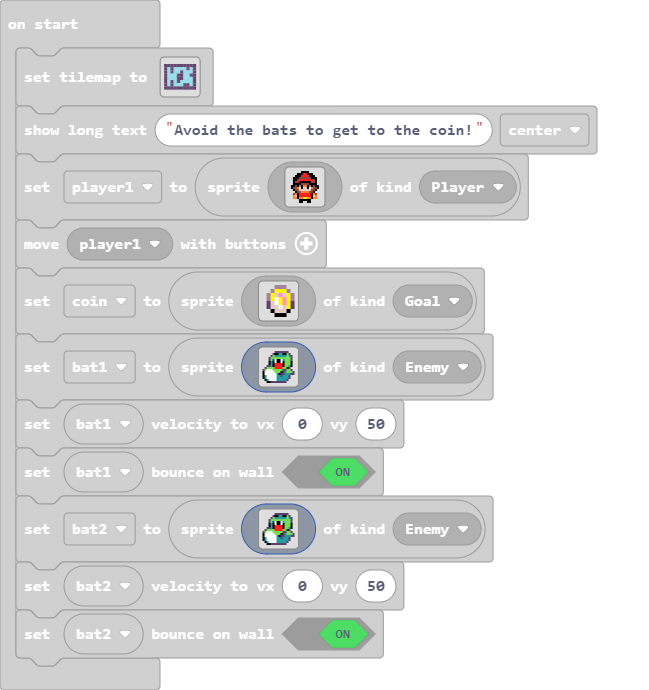
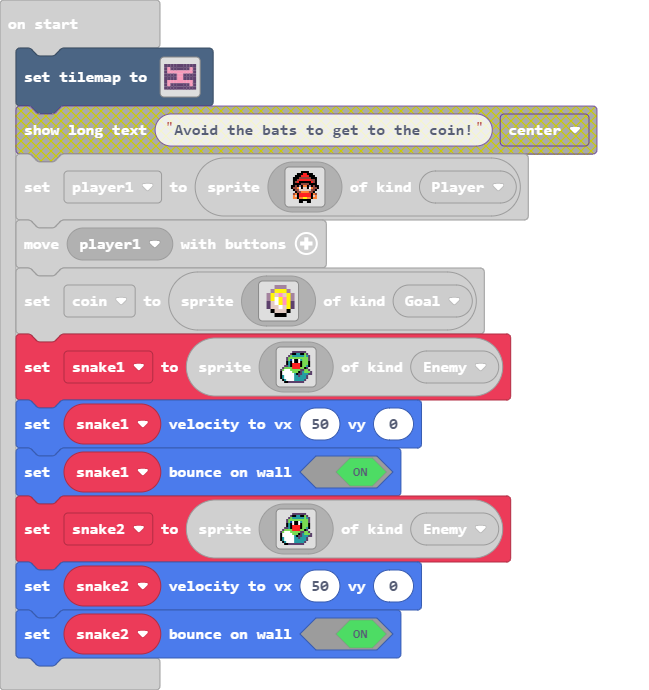
Update main.blocks, main.ts, tilemap.g.jres, tilemap.g.ts

diff --git a/tilemap.g.ts b/tilemap.g.ts
@@ -64,17 +64,6 @@ namespace myTiles {
 . . . . . . . . . . . . . . . . 
 . . . . . . . . . . . . . . . . 
 `, [], -Infinity);
-            case "level3":
[1 lines of base64/hex data omitted]
-2 2 2 2 2 2 2 2 2 2 
-2 . 2 . . . . 2 . 2 
-2 . 2 . . . . . . 2 
-2 . . . 2 2 . . 2 2 
-2 . . . 2 2 . . . 2 
-2 . 2 . . . . . . 2 
-2 . 2 . . . 2 2 . 2 
-2 2 2 2 2 2 2 2 2 2 
-`, [myTiles.transparency16,sprites.dungeon.darkGroundNorthWest0,sprites.dungeon.darkGroundWest,sprites.dungeon.darkGroundSouthWest0,sprites.dungeon.darkGroundNorth,sprites.dungeon.collectibleInsignia,sprites.dungeon.darkGroundSouth,sprites.dungeon.darkGroundCenter,sprites.dungeon.darkGroundNorthEast0,sprites.dungeon.darkGroundEast,sprites.dungeon.darkGroundSouthEast0], TileScale.Sixteen);
             case "level5":
             case "level5":return tiles.createTilemap(hex`1000100000000000000000000000000000000000000000000000000000000000000000000000000000000000000000000000000000000000000000000000000000000000000000000000000000000000000000000000000000000000000000000000000000000000000000000000000000000000000000000000000000000000000000000000000000000000000000000000000000000000000000000000000000000000000000000000000000000000000000000000000000000000000000000000000000000000000000000000000000000000000000000000000000000000000000000000000000000000000000000000000000000000000000000000000000000000`, img`
 . . . . . . . . . . . . . . . . 
@@ -124,6 +113,17 @@ namespace myTiles {
 . . . . . . . . . . . . . . . . 
 . . . . . . . . . . . . . . . . 
 `, [myTiles.transparency16,myTiles.tile3,myTiles.tile19], TileScale.Sixteen);
+            case "level3":
[1 lines of base64/hex data omitted]
+2 2 2 2 2 2 2 2 2 2 
+2 . 2 2 2 2 2 2 . 2 
+2 . . . . . . . . 2 
+2 2 2 2 . . 2 2 2 2 
+2 2 2 2 . . 2 2 2 2 
+2 . . . . . . . . 2 
+2 . 2 2 2 2 2 2 . 2 
+2 2 2 2 2 2 2 2 2 2 
+`, [myTiles.transparency16,sprites.dungeon.darkGroundCenter,myTiles.tile3], TileScale.Sixteen);
         }
         return null;
     })

diff --git a/main.ts b/main.ts
@@ -1,8 +1,7 @@
 namespace SpriteKind {
     export const Goal = SpriteKind.create()
 }
-tiles.setTilemap(tilemap`level`)
-game.showLongText("Avoid the bats to get to the coin!", DialogLayout.Center)
+tiles.setTilemap(tilemap`level3`)
 let player1 = sprites.create(img`
     . . . . . . f f f f . . . . . . 
     . . . . f f f 2 2 f f f . . . . 
@@ -32,7 +31,7 @@ let coin = sprites.create(img`
     . . f d d d f . 
     . . . f f f . . 
     `, SpriteKind.Goal)
-let bat1 = sprites.create(img`
+let snake1 = sprites.create(img`
     . . . . . . c c c c c c c . . . 
     . . . . . c f f 6 6 f f 7 c . . 
     . . . . c 7 6 6 6 6 6 6 7 6 c . 
@@ -50,9 +49,9 @@ let bat1 = sprites.create(img`
     . f 6 1 1 1 1 6 6 6 6 6 c . . . 
     . . f f c c c c c c c c . . . . 
     `, SpriteKind.Enemy)
-bat1.setVelocity(0, 50)
-bat1.setBounceOnWall(true)
-let bat2 = sprites.create(img`
+snake1.setVelocity(50, 0)
+snake1.setBounceOnWall(true)
+let snake2 = sprites.create(img`
     . . . . . . c c c c c c c . . . 
     . . . . . c f f 6 6 f f 7 c . . 
     . . . . c 7 6 6 6 6 6 6 7 6 c . 
@@ -70,5 +69,5 @@ let bat2 = sprites.create(img`
     . f 6 1 1 1 1 6 6 6 6 6 c . . . 
     . . f f c c c c c c c c . . . . 
     `, SpriteKind.Enemy)
-bat2.setVelocity(0, 50)
-bat2.setBounceOnWall(true)
+snake2.setVelocity(50, 0)
+snake2.setBounceOnWall(true)
